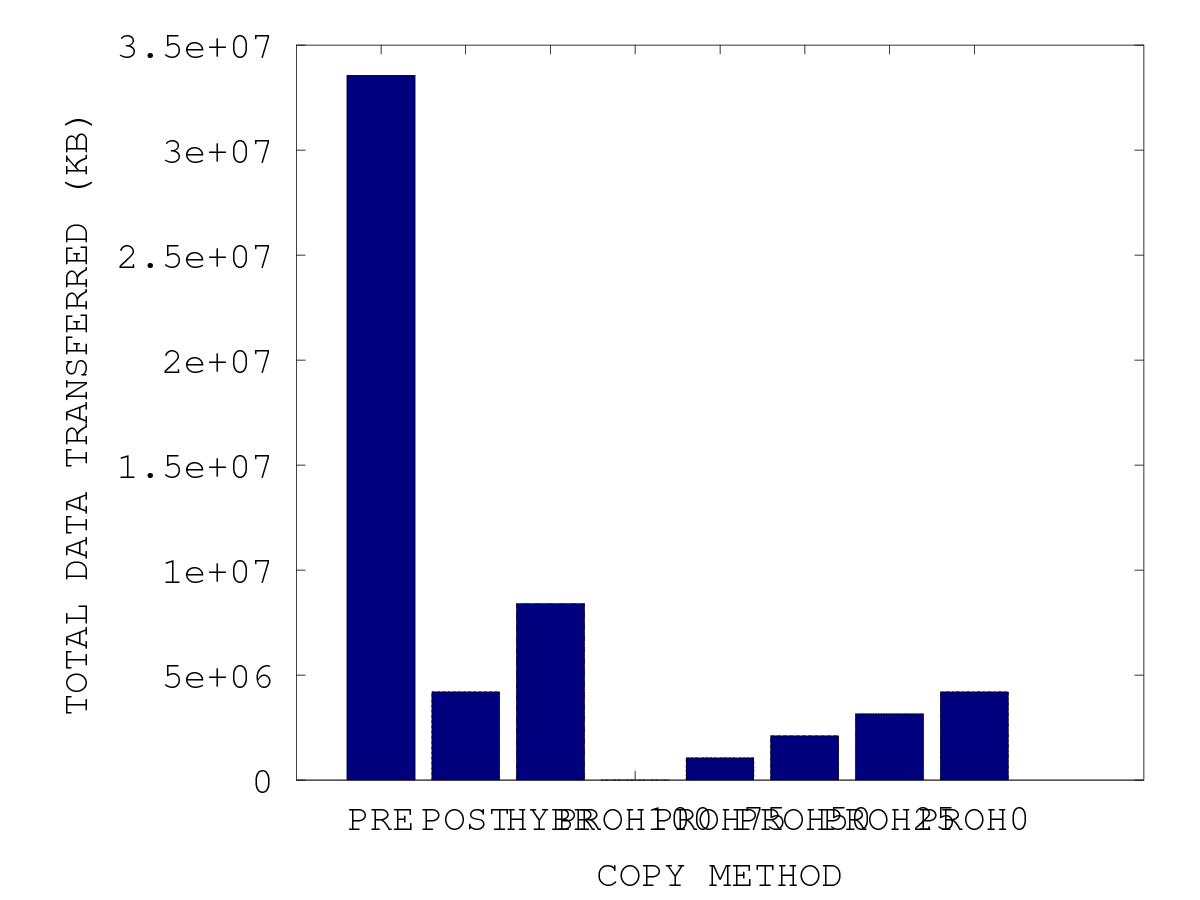
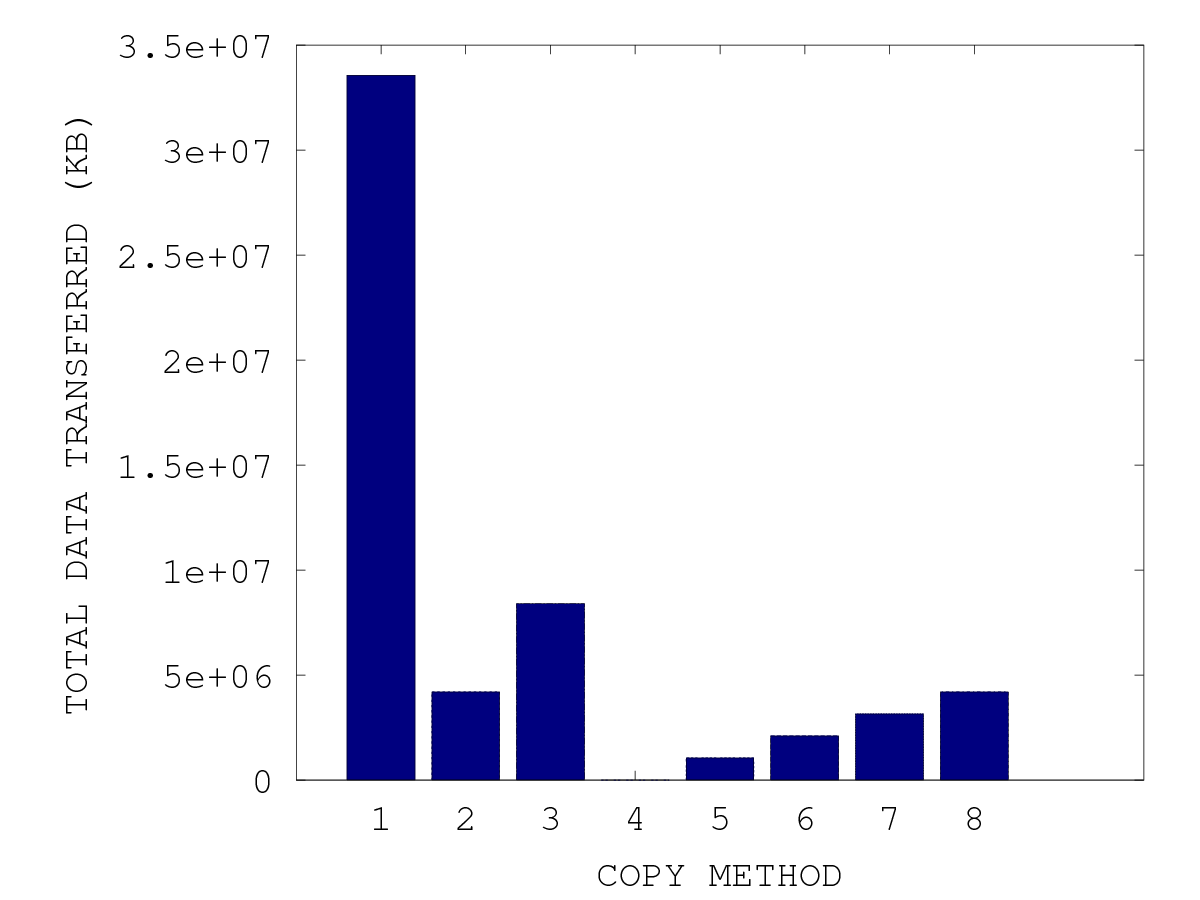
basic.m

Changed region(s): [[0.3083, 0.8711, 0.8633, 0.9333]]

diff --git a/basic.m b/basic.m
@@ -271,6 +271,7 @@ output = strcat(prefix, ".tt");
 %output = prefix
 %x = ['PRECOPY', 'POSTCOPY', 'HYBRID', 'PRO-HYBRID'];
 x = {'PRE', 'POST', 'HYBR', 'PROH100', 'PROH75', 'PROH50', 'PROH25', 'PROH0'};
+x = {'1', '2', '3', '4', '5', '6', '7', '8'};
 %x = 1:1:length(A);
 %plot(x, A(:,2)/1000000, x, A(:,3)/1000000, '-.*');
 %plot(A(:,2));
@@ -279,7 +280,7 @@ x = {'PRE', 'POST', 'HYBR', 'PROH100', 'PROH75', 'PROH50', 'PROH25', 'PROH0'};
 %bar(xtics, A(:,1))
 %bar(A(:,1), XTicksLabelStyle = Diagonal)
 bar(A(:,1))
-set(gca, 'XTick', 1:1.5:8, 'XTickLabel', x, 'FontSize', fontsize)
+set(gca, 'XTick', 1:8, 'XTickLabel', x, 'FontSize', fontsize)
 xlabel('COPY METHOD', 'FontSize', fontsize);
 ylabel('TOTAL TIME (SEC)', 'FontSize', fontsize);
 %legend('PRECOPY', 'POSTCOPY', 'HYBRID', 'PRO-HYBRID');
